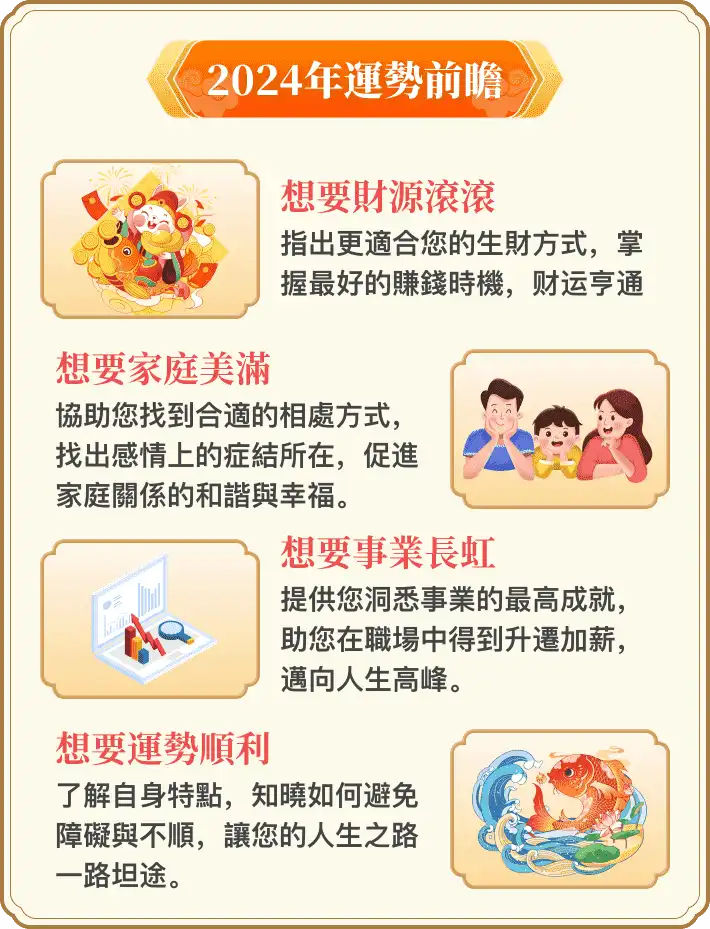
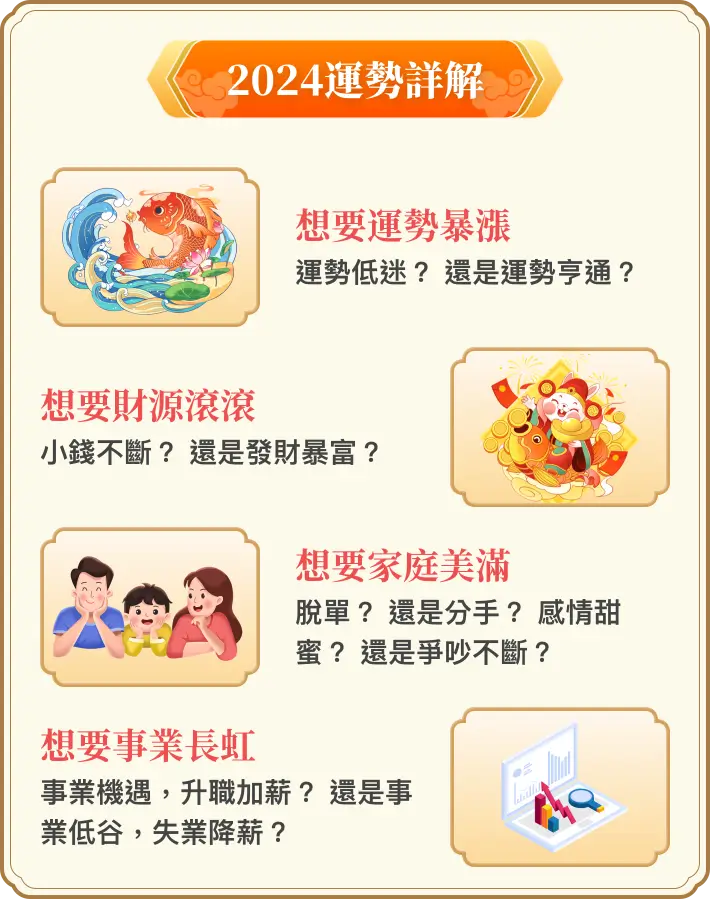
feat:图片资源替换

diff --git a/src/pages/emotion_fortune/home/index.vue b/src/pages/emotion_fortune/home/index.vue
@@ -131,11 +131,11 @@
     </div> -->
       <!-- <img class="card" :src="is_cn ? cn_card_1 : tw_card_1" />
     <img class="card" :src="is_cn ? cn_card_2 : tw_card_2" /> -->
-      <img class="card mt-180" :src="is_cn ? cn_icon_1 : tw_card_1" />
-      <img class="card" :src="is_cn ? cn_icon_2 : tw_card_2" />
-      <img class="card" :src="is_cn ? cn_icon_3 : tw_card_3" />
-      <img class="card" :src="is_cn ? cn_icon_4 : tw_card_4" />
-      <img class="card" :src="is_cn ? cn_icon_5 : tw_card_5" />
+      <img class="card mt-180" :src="is_cn ? cn_icon_1 : tw_icon_1" />
+      <img class="card" :src="is_cn ? cn_icon_2 : tw_icon_2" />
+      <img class="card" :src="is_cn ? cn_icon_3 : tw_icon_3" />
+      <img class="card" :src="is_cn ? cn_icon_4 : tw_icon_4" />
+      <img class="card" :src="is_cn ? cn_icon_5 : tw_icon_5" />
       <img
         v-if="showFixedBtn"
         class="fix-btn emo-btn"
